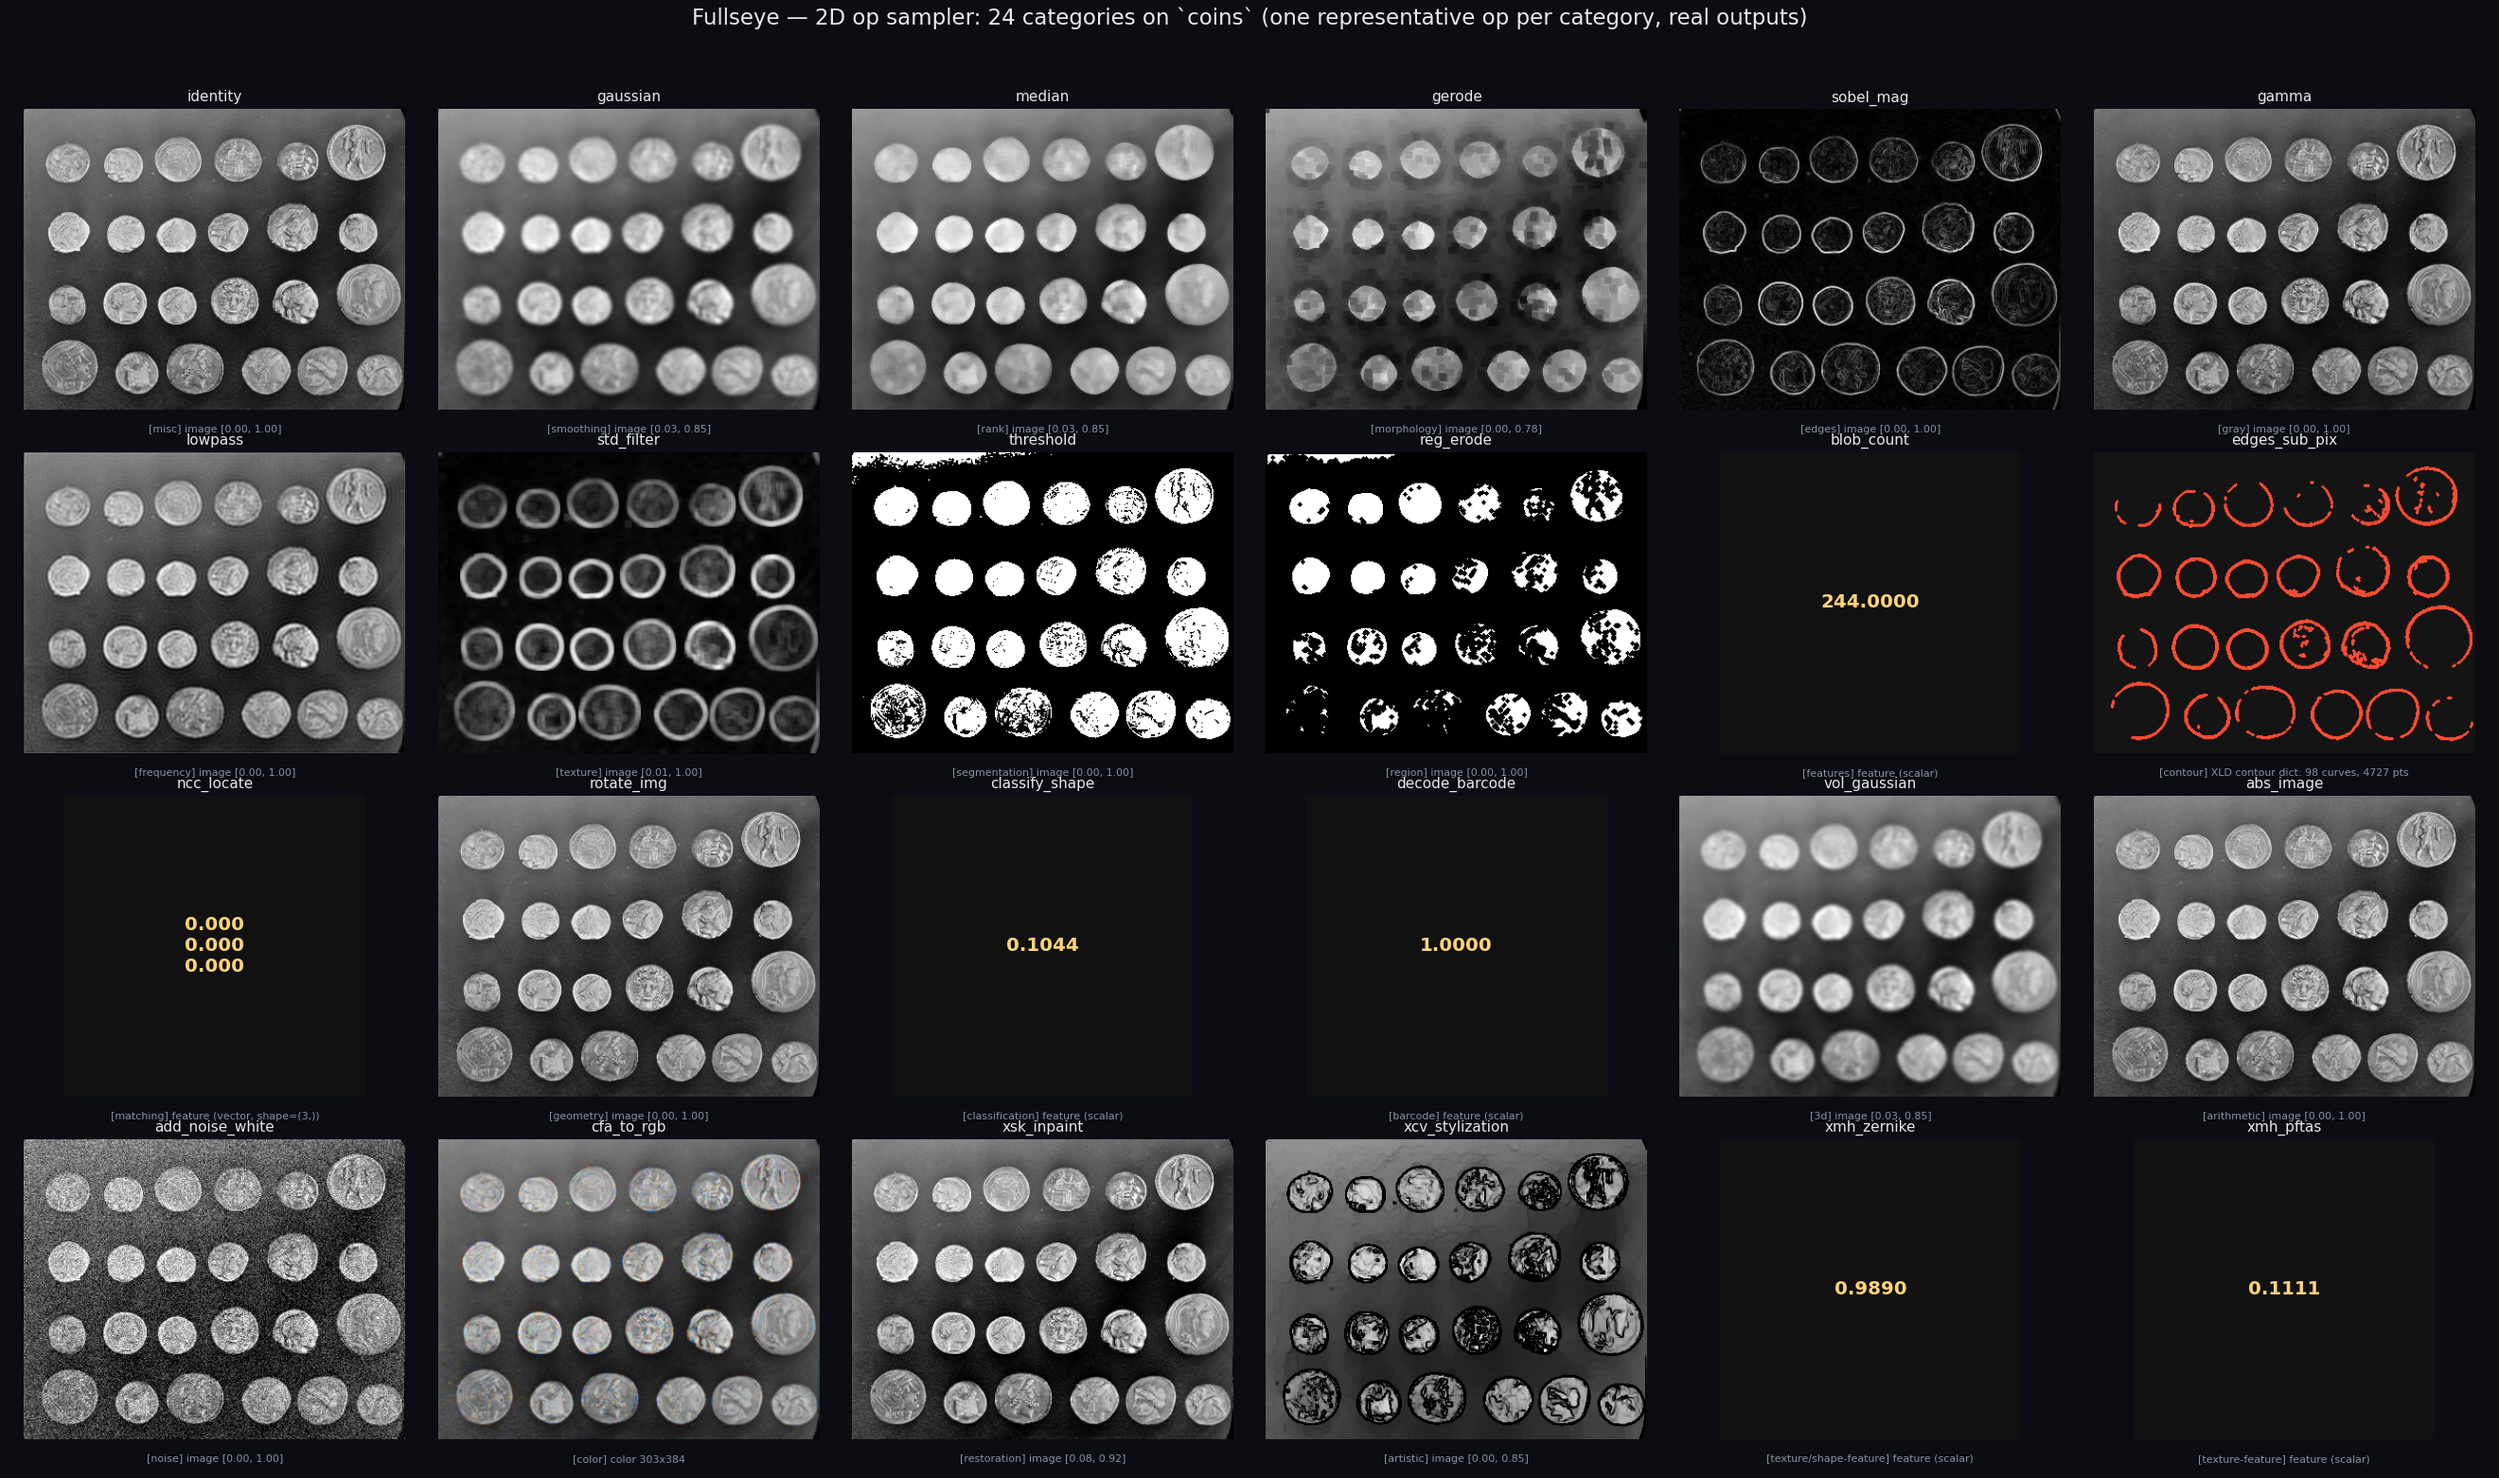
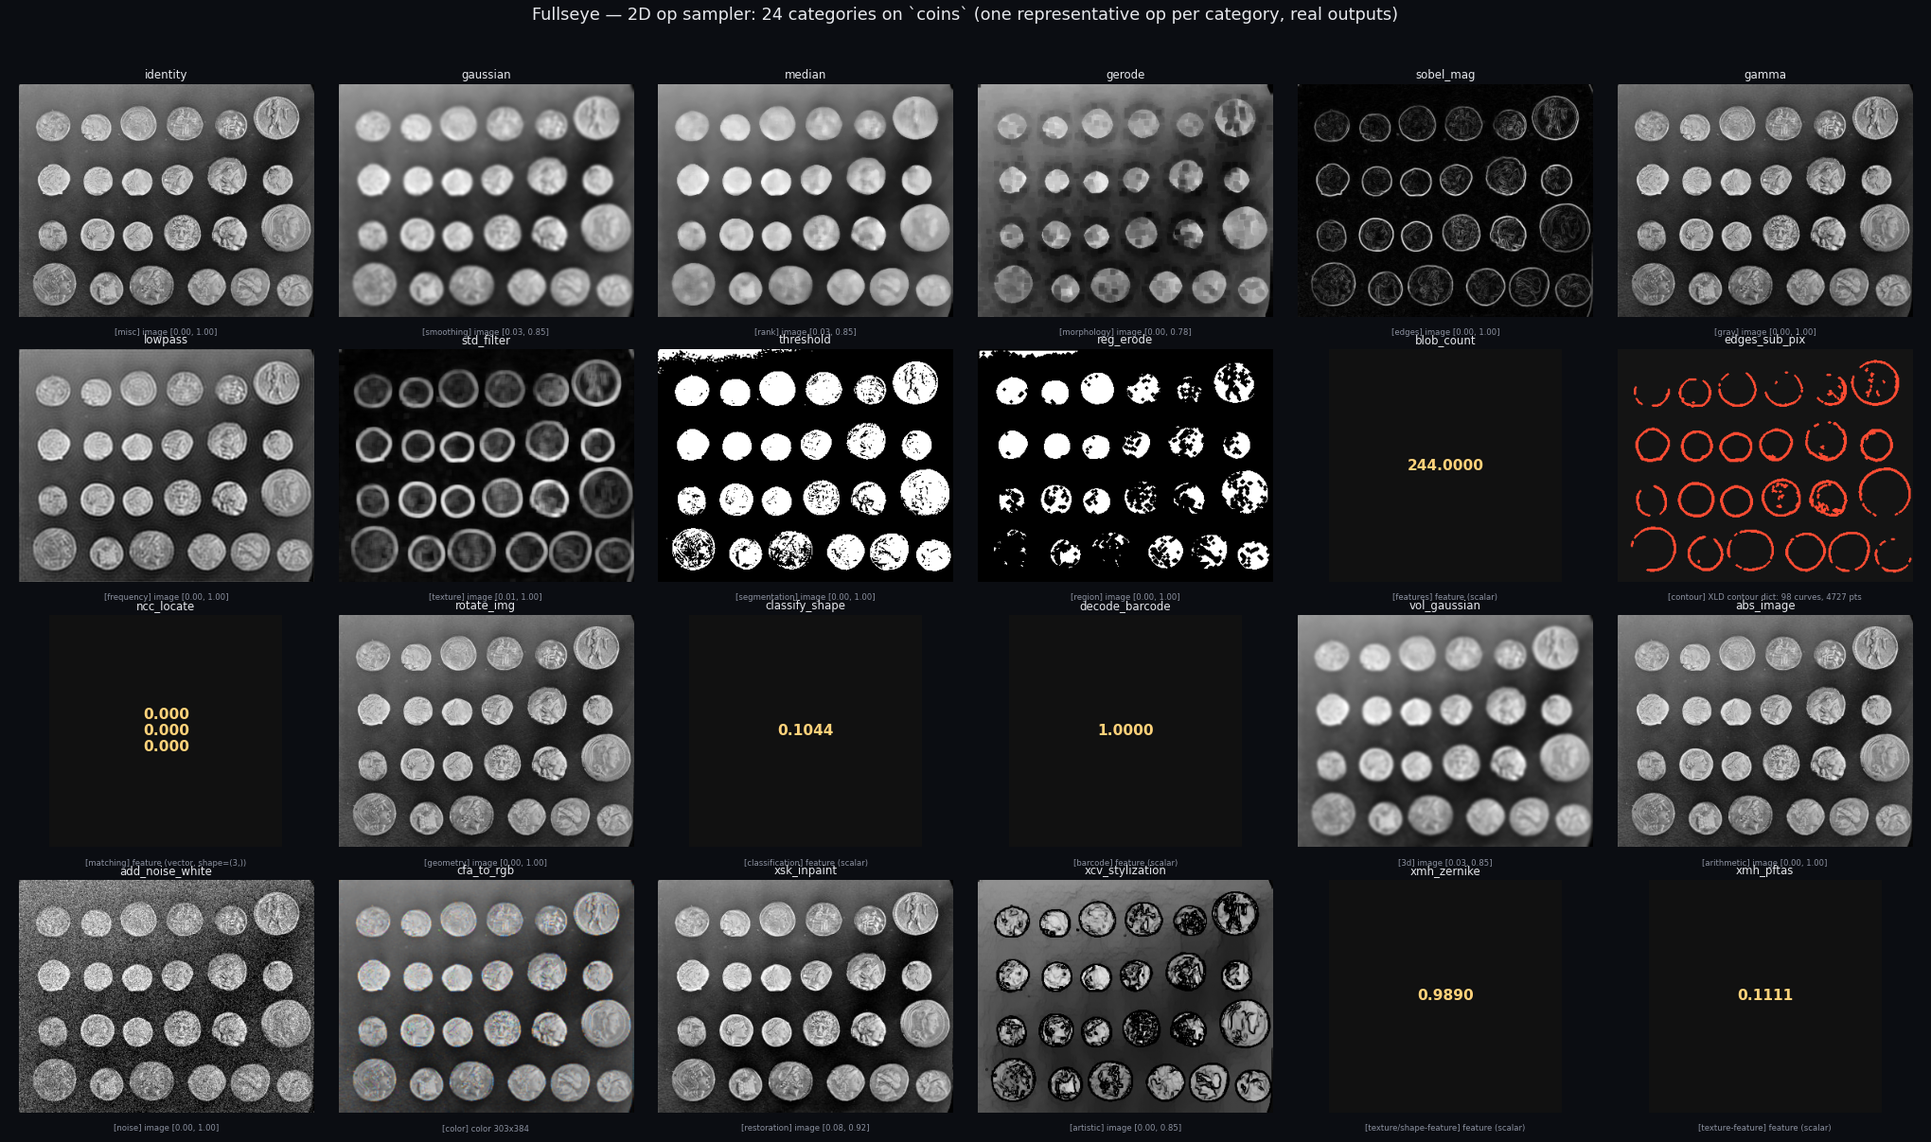
auto: gen_article_assets.py 編集前 (2026-08-30 16:11)

diff --git a/tools/gen_article_assets.py b/tools/gen_article_assets.py
@@ -985,7 +985,7 @@ def build_op_sampler_2d(log=print) -> dict:
                  f"(one representative op per category, real outputs)", color=fg, fontsize=15, y=0.995)
     fig.tight_layout(rect=(0, 0, 1, 0.965))
     out_path = os.path.join(ASSETS_DIR, "op_sampler_2d.png")
-    fig.savefig(out_path, dpi=110, facecolor=bg)
+    fig.savefig(out_path, dpi=85, facecolor=bg)
     plt.close(fig)
     log(f"op_sampler_2d: {out_path} | {len(chosen)} tiles: "
         + ", ".join(f"{cat}:{name}" for cat, name, _ in chosen))
